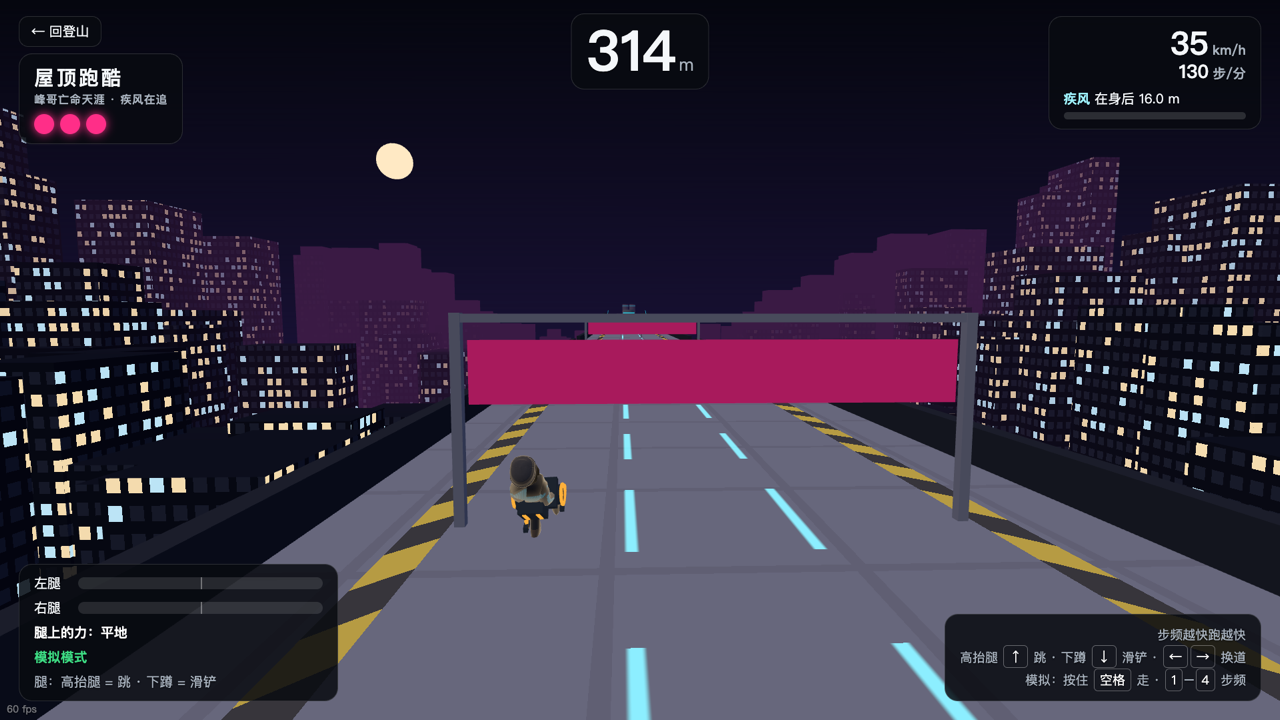
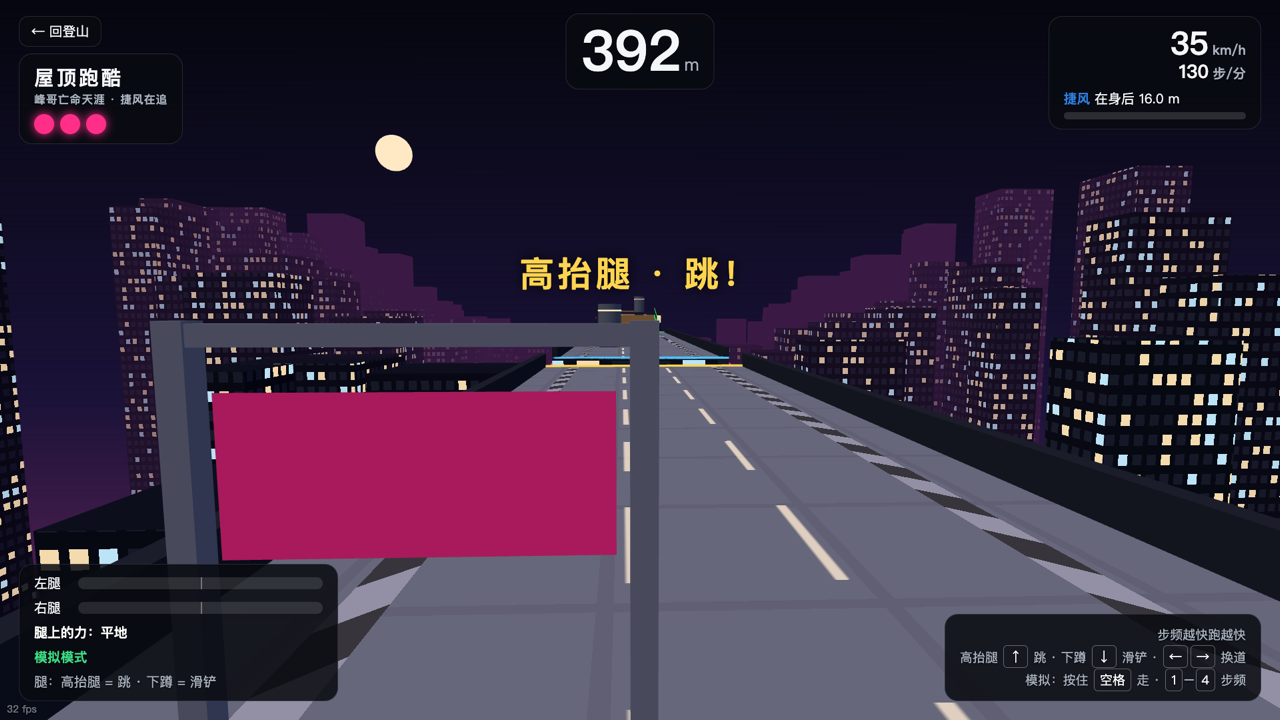
R 跑酷：追兵统一叫「捷风」；颜色改从 game/style.js 取（ART 范式 §R 的 5 条 P1）
- 文案 / 标签 / 结局标题全改捷风；HUD 用 applyCssVars()（强调色紫、状态色、捷风钴蓝），不再另写一套
- 3D：起跳障碍前沿 + 楼缝起跳沿 = SEG.stairs_up，落地沿 = SEG.down，斜板扶手 + 两侧板沿 = SEG.up；
  车道线青 → 月光白、楼沿警示带黄黑 → 灰黑、水箱环青 → 月光（避开路段色）
- 捷风只在 jfGap ≤ 1.8 时现身，离镜头横向固定 1.8（站峰哥另一侧，不压左下面板）；STL 雕像按 npc.js 的风系飘行
- 截图重拍：--sim 自动驾驶一局 127 s / 1123 m，force 只有 null / up / lift / down

diff --git a/shellos/ui/static/parkour.html b/shellos/ui/static/parkour.html
@@ -11,7 +11,8 @@
 </script>
 <script type="importmap">{"imports":{"three":"/vendor/three.module.js","three/addons/":"/vendor/"}}</script>
 <style>
-:root{--fg:#f4f7fa;--dim:#a9b3bf;--panel:rgba(8,10,16,.86);--line:rgba(255,255,255,.14);--acc:#29e7ff;--acc0:#ff2e88;--jf:#9ff3ff}
+/* 颜色全从 game/style.js 来（main.js 开头 applyCssVars()，覆盖这里的缺省值）：--ui-* / --acc = HUD，--seg-* = 路段，--who-jett = 捷风；--acc0 = 跑酷色板品红 */
+:root{--fg:var(--ui-fg,#f4f7fa);--dim:var(--ui-dim,#a9b3bf);--panel:var(--ui-panel,rgba(8,10,16,.86));--line:var(--ui-line,rgba(255,255,255,.12));--acc:#b48cff;--acc0:#ff2e88;--jf:var(--who-jett,#2f7fe0);--bad:var(--ui-danger,#ff4d4f)}
 html{font-size:clamp(13px,1.04vw,44px)}
 *{box-sizing:border-box}
 body{margin:0;overflow:hidden;background:#05060a;color:var(--fg);font-family:-apple-system,"PingFang SC","Hiragino Sans GB","Noto Sans CJK SC",sans-serif;user-select:none}
@@ -19,7 +20,7 @@ body{margin:0;overflow:hidden;background:#05060a;color:var(--fg);font-family:-ap
 .hud{position:fixed;pointer-events:none;text-shadow:0 1px 3px rgba(0,0,0,.6)}
 /* 不用 backdrop-filter：盖在 WebGL 画布上每帧都要重新模糊，这台 AMD 555 上 34 → 60 fps 就差它 */
 .panel{background:var(--panel);border:1px solid var(--line);border-radius:1rem;padding:.7rem 1.1rem}
-#flash{inset:0;background:radial-gradient(ellipse at center,transparent 35%,#ff2040 100%);opacity:0}
+#flash{inset:0;background:radial-gradient(ellipse at center,transparent 35%,var(--bad) 100%);opacity:0}
 #tl{left:1.4rem;top:1.2rem;display:flex;flex-direction:column;gap:.5rem}
 #back{pointer-events:auto;align-self:flex-start;color:var(--fg);text-decoration:none;font-size:1rem;padding:.4rem .9rem;border-radius:.7rem;background:var(--panel);border:1px solid var(--line)}
 #name{font-size:1.5rem;font-weight:900;letter-spacing:.12em}
@@ -36,20 +37,20 @@ body{margin:0;overflow:hidden;background:#05060a;color:var(--fg);font-family:-ap
 #jf{margin-top:.6rem;font-size:1rem;text-align:left}
 #jf b{color:var(--jf)}
 #jfTrack{height:.55rem;border-radius:.3rem;background:rgba(255,255,255,.14);overflow:hidden;margin-top:.3rem}
-#jfBar{height:100%;width:0;background:linear-gradient(90deg,var(--jf),#ff4d6d);transition:width .2s}
-body.danger #tr{border-color:#ff4d6d;box-shadow:0 0 1.2rem rgba(255,77,109,.5)}
-#jfSay{right:1.4rem;top:12.5rem;font-size:1.3rem;font-weight:800;color:#dffaff;border-color:var(--jf);opacity:0;transform:translateY(-.4rem);transition:opacity .25s,transform .25s}
-#jfSay::before{content:"疾风";display:block;font-size:.75rem;letter-spacing:.2em;color:var(--jf)}
+#jfBar{height:100%;width:0;background:linear-gradient(90deg,var(--jf),var(--bad));transition:width .2s}
+body.danger #tr{border-color:var(--bad);box-shadow:0 0 1.2rem var(--bad)}
+#jfSay{right:1.4rem;top:12.5rem;font-size:1.3rem;font-weight:800;color:var(--fg);border-color:var(--jf);opacity:0;transform:translateY(-.4rem);transition:opacity .25s,transform .25s}
+#jfSay::before{content:"捷风";display:block;font-size:.75rem;letter-spacing:.2em;color:var(--jf)}
 body.talk #jfSay{opacity:1;transform:none}
 #hint{left:50%;top:38%;transform:translate(-50%,-50%);font-size:2.6rem;font-weight:900;letter-spacing:.1em;text-shadow:0 0 1rem rgba(0,0,0,.8)}
-#hint.jump{color:#ffd54f}#hint.slide{color:#ff5fa8}#hint.lane{color:var(--acc)}
+#hint.jump{color:var(--seg-stairs-up)}#hint.slide{color:var(--acc0)}#hint.lane{color:var(--acc)}   /* 跳 = 台阶黄（起跳前给 lift，和台阶同类） */
 #bl{left:1.4rem;bottom:1.4rem;width:24rem;display:flex;flex-direction:column;gap:.45rem;font-size:1rem}
 .leg{display:grid;grid-template-columns:2.8rem 1fr;align-items:center;gap:.5rem}
 .bar{position:relative;height:.9rem;border-radius:.45rem;background:rgba(255,255,255,.12);overflow:hidden}
 .bar::after{content:"";position:absolute;left:50%;top:0;bottom:0;width:2px;background:rgba(255,255,255,.35)}
 .bar i{position:absolute;top:0;bottom:0;left:50%;width:0;background:var(--acc)}
 #force{color:#fff;font-weight:700}
-#r2{color:#ffb03a;font-weight:700}#r2.ok{color:#3ddc84}
+#r2{color:var(--ui-warn);font-weight:700}#r2.ok{color:var(--ui-ok)}
 #legs{color:var(--dim)}
 #keys{right:1.4rem;bottom:1.4rem;font-size:.95rem;color:var(--dim);text-align:right;line-height:1.7}
 #keys kbd{display:inline-block;padding:0 .4rem;margin:0 .1rem;border-radius:.3rem;border:1px solid rgba(255,255,255,.35);color:#fff;font:inherit}
@@ -60,11 +61,11 @@ body.title #hint,body.over #hint{display:none}
 #title .s{font-size:1.4rem;margin-top:.6rem}
 #title .s b{color:var(--acc)}
 #title .d{font-size:1.05rem;color:var(--dim);margin-top:.8rem;line-height:1.8}
-#over{border-color:var(--acc0)}
+#over{border-color:var(--bad)}
 #over .n{font-size:5rem;font-weight:900;line-height:1.1;font-variant-numeric:tabular-nums}
 #over .n small{font-size:1.6rem;color:var(--dim)}
-#over .w{font-size:1.3rem;color:#ff8fa3;margin:.2rem 0 .6rem}
-#goNew{color:#ffd54f;font-size:1.3rem;font-weight:800;display:none}
+#over .w{font-size:1.3rem;color:var(--bad);margin:.2rem 0 .6rem}
+#goNew{color:var(--acc);font-size:1.3rem;font-weight:800;display:none}
 #over .d{font-size:1.1rem;color:var(--dim);margin-top:.6rem}
 #banner{left:50%;top:50%;transform:translate(-50%,-50%);font-size:1.3rem;display:none}
 #fps{left:.5rem;bottom:.3rem;font-size:.75rem;color:rgba(255,255,255,.45)}
@@ -72,12 +73,12 @@ body.title #hint,body.over #hint{display:none}
 </style></head><body class="title">
 <canvas id="c"></canvas>
 <div class="hud" id="flash"></div>
-<div class="hud" id="tl"><a id="back" href="/game">← 回登山</a><div class="panel"><div id="name">屋顶跑酷<small>峰哥亡命天涯 · 疾风在追</small></div><div id="lives"></div></div></div>
+<div class="hud" id="tl"><a id="back" href="/game">← 回登山</a><div class="panel"><div id="name">屋顶跑酷<small>峰哥亡命天涯 · 捷风在追</small></div><div id="lives"></div></div></div>
 <div class="hud panel" id="tc"><span id="dist">0</span><small>m</small></div>
 <div class="hud panel" id="tr">
   <div class="big"><span id="spd">0</span><small>km/h</small></div>
   <div class="big" style="font-size:1.4rem"><span id="cad">—</span><small>步/分</small></div>
-  <div id="jf"><b>疾风</b> 在身后 <span id="jfM">—</span><div id="jfTrack"><div id="jfBar"></div></div></div>
+  <div id="jf"><b>捷风</b> 在身后 <span id="jfM">—</span><div id="jfTrack"><div id="jfBar"></div></div></div>
 </div>
 <div class="hud panel" id="jfSay"></div>
 <div class="hud" id="hint"></div>
@@ -89,7 +90,7 @@ body.title #hint,body.over #hint{display:none}
   <div id="legs">—</div>
 </div>
 <div class="hud panel" id="keys">步频越快跑越快<br>高抬腿 <kbd>↑</kbd> 跳 · 下蹲 <kbd>↓</kbd> 滑铲 · <kbd>←</kbd><kbd>→</kbd> 换道<span id="simHint" style="display:none"><br>模拟：按住 <kbd>空格</kbd> 走 · <kbd>1</kbd>–<kbd>4</kbd> 步频</span></div>
-<div class="hud panel" id="title"><div class="t">屋顶跑酷</div><div class="s">迈开腿就开跑 —— <b>别让疾风追上</b></div>
+<div class="hud panel" id="title"><div class="t">屋顶跑酷</div><div class="s">迈开腿就开跑 —— <b>别让捷风追上</b></div>
   <div class="d">步频 = 速度 · 高抬腿跳过空调和楼缝 · 下蹲钻晾衣杆 · ← → 绕开水箱<br>撞 3 次结束</div></div>
 <div class="hud panel" id="over"><div class="t" id="goT">峰哥倒下了</div><div class="w" id="hitWhy"></div><div class="n"><span id="goDist">0</span><small> m</small></div>
   <div id="goNew">★ 新纪录</div><div class="d">最好成绩 <b id="goBest">0</b> m · <b>高抬腿</b> 或 <b>回车</b> 再来一局</div></div>

diff --git a/shellos/ui/static/parkour/city.js b/shellos/ui/static/parkour/city.js
@@ -3,9 +3,13 @@
 import * as THREE from 'three';
 import { mergeGeometries } from 'three/addons/BufferGeometryUtils.js';
 import { rng, LANE } from './logic.js';
+import { SEG, PALETTE } from '/game/style.js';
 
 export const ROOF_W = 8;                     // 屋顶宽（z），三条道在中间 ±2.4
-const NEON = ['#29e7ff', '#ff2e88', '#ffd54f', '#7c5cff'];
+// 颜色按 ART 范式（game/style.js）：路段色只标腿上有力的地方——起跳前沿 = 台阶黄（起跳前给 lift）、斜板 = 上坡绿、落地沿 = 下坡蓝；
+//   其余用跑酷色板（品红 + 月光），不用青（撞下坡蓝）、不用琥珀（峰哥专用）、不用黄（台阶专用）
+const [MAGENTA, MOON] = PALETTE.parkour.accent;
+const lin = hex => { const c = new THREE.Color(hex); return `vec3(${c.r.toFixed(3)}, ${c.g.toFixed(3)}, ${c.b.toFixed(3)})`; };
 
 // 楼：一个材质一次绘制。竖墙 = 窗户（按 (横向坐标, y) 分格，hash 决定亮不亮 / 暖还是冷）；roof = 顶面画成屋顶（混凝土方砖 + 三条道的发光分隔线 + 两边警示带）。
 // local = 用几何自己的坐标（天际线整体平移时窗户不跳）
@@ -32,9 +36,9 @@ function winMat(base, local, roof) {
           diffuseColor.rgb *= 0.85 + 0.15 * step(0.03, min(g.x, g.y));
           float z = abs(vP.z);
           float lane = 1.0 - smoothstep(0.03, 0.07, abs(z - ${(LANE / 2).toFixed(2)}));
-          totalEmissiveRadiance += lane * step(0.45, fract(vP.x / 3.0)) * vec3(0.16, 0.9, 1.0) * 0.8;
+          totalEmissiveRadiance += lane * step(0.45, fract(vP.x / 3.0)) * ${lin(MOON)} * 0.6;
           float edge = step(${(LANE * 1.5 + 0.1).toFixed(2)}, z) * step(z, ${(LANE * 1.5 + 0.45).toFixed(2)});
-          diffuseColor.rgb = mix(diffuseColor.rgb, mix(vec3(1.0, 0.75, 0.1), vec3(0.08), step(0.5, fract((vP.x + z) / 1.2))), edge);
+          diffuseColor.rgb = mix(diffuseColor.rgb, mix(vec3(0.62, 0.64, 0.68), vec3(0.08), step(0.5, fract((vP.x + z) / 1.2))), edge);
         }` : ''}`);
   };
   m.customProgramCacheKey = () => 'win' + (local ? 'L' : 'W') + (roof ? 'R' : '');
@@ -45,12 +49,13 @@ export function makeCity(scene, { low = false } = {}) {
   const M = {
     win: winMat('#1d2333', false, true),
     parapet: new THREE.MeshLambertMaterial({ color: '#2a2f3a' }),
-    neon: NEON.map(c => new THREE.MeshBasicMaterial({ color: c })),
+    side: new THREE.MeshBasicMaterial({ color: MAGENTA }),
+    jump: new THREE.MeshBasicMaterial({ color: SEG.stairs_up }), up: new THREE.MeshBasicMaterial({ color: SEG.up }), land: new THREE.MeshBasicMaterial({ color: SEG.down }),
     ramp: new THREE.MeshLambertMaterial({ color: '#8a6a3a', emissive: '#2a1a08' }),
     ac: new THREE.MeshLambertMaterial({ color: '#d7dde4' }), fan: new THREE.MeshBasicMaterial({ color: '#15181e' }),
-    warn: new THREE.MeshBasicMaterial({ color: '#ffb03a' }),
+    warn: new THREE.MeshBasicMaterial({ color: SEG.stairs_up }),   // 要跳的障碍前沿 = 台阶黄
     pole: new THREE.MeshLambertMaterial({ color: '#8d96a3' }), cloth: new THREE.MeshLambertMaterial({ color: '#ff2e88', emissive: '#6a0d36', side: THREE.DoubleSide }),
-    tank: new THREE.MeshLambertMaterial({ color: '#6d7b86' }), tankBand: new THREE.MeshBasicMaterial({ color: '#29e7ff' }),
+    tank: new THREE.MeshLambertMaterial({ color: '#6d7b86' }), tankBand: new THREE.MeshBasicMaterial({ color: MOON }),
   };
 
   // ---- 天空 + 远景 ----
@@ -76,20 +81,23 @@ export function makeCity(scene, { low = false } = {}) {
   // ---- 关卡物件 ----
   const live = new Map();                                  // 关卡里的 seg / obs 对象 → 网格
   const box = (w, h, d) => new THREE.BoxGeometry(w, h, d);
-  function segMesh(s) {
+  function segMesh(s, prev, next) {
     const L = s.x1 - s.x0, g = new THREE.Group();
     if (s.kind === 'roof') {
       const b = new THREE.Mesh(box(L, 80, ROOF_W).translate(0, -40, 0), M.win);
       const par = new THREE.Mesh(mergeGeometries([box(L, 0.5, 0.25).translate(0, 0.25, ROOF_W / 2 - 0.12), box(L, 0.5, 0.25).translate(0, 0.25, -ROOF_W / 2 + 0.12)]), M.parapet);
-      const neon = new THREE.Mesh(mergeGeometries([box(L, 0.08, 0.1).translate(0, -0.3, ROOF_W / 2 + 0.05), box(L, 0.08, 0.1).translate(0, -0.3, -ROOF_W / 2 - 0.05), box(0.1, 0.08, ROOF_W).translate(L / 2 + 0.05, -0.3, 0)]),
-        M.neon[Math.floor(s.x0 / 7) % NEON.length]);   // 楼沿一圈霓虹：楼缝在哪一眼看清
-      g.add(b, par, neon);
+      g.add(b, par, new THREE.Mesh(mergeGeometries([box(L, 0.08, 0.1).translate(0, -0.3, ROOF_W / 2 + 0.05), box(L, 0.08, 0.1).translate(0, -0.3, -ROOF_W / 2 - 0.05)]), M.side));
+      // 楼头楼尾的亮沿：前面是楼缝 = 起跳（台阶黄），前面是斜板 = 上坡绿；后面是楼缝 = 落地（下坡蓝）。楼缝在哪一眼看清
+      if (next) g.add(new THREE.Mesh(box(0.14, 0.1, ROOF_W).translate(L / 2 - 0.07, 0.02, 0), next.kind === 'ramp' ? M.up : M.jump));
+      if (prev && prev.kind === 'gap') g.add(new THREE.Mesh(box(0.14, 0.1, ROOF_W).translate(-L / 2 + 0.07, 0.02, 0), M.land));
       g.position.set((s.x0 + s.x1) / 2, s.h0, 0);
     } else if (s.kind === 'ramp') {
       const dy = s.h1 - s.h0, len = Math.hypot(L, dy);
       const p = new THREE.Mesh(box(len, 0.25, ROOF_W - 1.5), M.ramp);
       p.rotation.z = Math.atan2(dy, L); p.position.y = -0.12;
-      const rails = new THREE.Mesh(mergeGeometries([box(len, 0.06, 0.06).translate(0, 0.9, ROOF_W / 2 - 0.8), box(len, 0.06, 0.06).translate(0, 0.9, -ROOF_W / 2 + 0.8)]), M.neon[0]);
+      const e = (ROOF_W - 1.5) / 2;                     // 斜板上给的是 up：扶手 + 两侧板沿都用上坡绿
+      const rails = new THREE.Mesh(mergeGeometries([box(len, 0.06, 0.06).translate(0, 0.9, ROOF_W / 2 - 0.8), box(len, 0.06, 0.06).translate(0, 0.9, -ROOF_W / 2 + 0.8),
+        box(len, 0.08, 0.12).translate(0, 0.02, e - 0.06), box(len, 0.08, 0.12).translate(0, 0.02, -e + 0.06)]), M.up);
       rails.rotation.z = p.rotation.z;
       g.add(p, rails);
       g.position.set((s.x0 + s.x1) / 2, (s.h0 + s.h1) / 2, 0);
@@ -128,7 +136,7 @@ export function makeCity(scene, { low = false } = {}) {
     // 每帧：把关卡里新出现的物件建出来、没了的扔掉；天际线跟着人挪
     sync(level, px) {
       const want = new Set();
-      for (const s of level.segs) { want.add(s); if (!live.has(s)) { const m = segMesh(s); live.set(s, m); if (m) scene.add(m); } }
+      level.segs.forEach((s, i) => { want.add(s); if (!live.has(s)) { const m = segMesh(s, level.segs[i - 1], level.segs[i + 1]); live.set(s, m); if (m) scene.add(m); } });
       for (const o of level.obs) { want.add(o); if (!live.has(o)) { const m = obsMesh(o, level.ground(o.x) ?? 0); live.set(o, m); scene.add(m); } }
       for (const [k, m] of live) if (!want.has(k)) { if (m) kill(m); live.delete(k); }
       skyline.position.x = Math.floor(px / T) * T;

diff --git a/shellos/ui/static/parkour/main.js b/shellos/ui/static/parkour/main.js
@@ -8,9 +8,11 @@ import * as THREE from 'three';
 import { loadAvatar, preloadAvatar } from '/game/avatar.js';
 import { dressFengge } from '/game/fengge.js';
 import { makeJifeng } from '/game/npc_jifeng.js';
-import { LANE, TUNE, makeLevel, makeRun, makeLegs, speedFor, forceKind, nextThreat } from './logic.js';
+import { PALETTE, applyCssVars } from '/game/style.js';
+import { TUNE, makeLevel, makeRun, makeLegs, speedFor, forceKind, nextThreat } from './logic.js';
 import { makeCity } from './city.js';
 
+applyCssVars(); document.documentElement.style.setProperty('--acc0', PALETTE.parkour.accent[0]);   // 颜色按 ART 范式，不另写一套
 const Q = new URLSearchParams(location.search);
 const LOW = Q.get('fx') === 'low', AUTO = Q.has('auto') ? +(Q.get('auto') || 0.85) : 0, MUTE = Q.get('voice') === '0';
 for (const [k, q] of [['JUMP_FLEX', 'jump'], ['SLIDE_FLEX', 'slide'], ['JUMP_VEL', 'vjump']]) if (Q.has(q)) TUNE[k] = +Q.get(q);
@@ -130,7 +132,7 @@ async function main() {
 
   // ---------- 每帧 ----------
   const P = new THREE.Vector3(), camP = new THREE.Vector3(), look = new THREE.Vector3(), dir = new THREE.Vector3(1, 0, 0), jfP = new THREE.Vector3();
-  let last = performance.now(), frames = 0, fpsT = last, camY = run.y, jfPhase = 0, tilt = 0;
+  let last = performance.now(), frames = 0, fpsT = last, camY = run.y, jfPhase = 0, tilt = 0, jfZ = 1.8;
   const HINT = { jump: '高抬腿 · 跳！', slide: '下蹲 · 滑铲！', lane: '← → 换道！' };
   function frame() {
     requestAnimationFrame(frame);
@@ -149,8 +151,8 @@ async function main() {
     if (run.over && t - overAt > 3 && pend.jump) newRun();   // 穿着外骨骼按不了回车：高抬腿再来一局
     for (const ev of run.events.splice(0)) {
       if (ev === 'start') { document.body.classList.remove('title'); say('start'); }
-      if (['low', 'high', 'block', 'fall', 'wall', 'caught'].includes(ev)) { shake = 0.5; flash = 1; $('hitWhy').textContent = { low: '撞上空调外机', high: '被晾衣杆拦住', block: '撞上水箱', fall: '掉下楼缝', wall: '撞上楼沿', caught: '被疾风追上' }[ev]; if (ev === 'caught') { say('caught'); jf.burst(); } }
-      if (ev === 'over') { overAt = t; $('goT').textContent = $('hitWhy').textContent === '被疾风追上' ? '被疾风抓住了' : '峰哥倒下了'; const b = best.get(), d = Math.floor(run.dist); if (d > b) best.set(d); $('goDist').textContent = d; $('goBest').textContent = Math.max(b, d); $('goNew').style.display = d > b ? 'block' : 'none'; document.body.classList.add('over'); }
+      if (['low', 'high', 'block', 'fall', 'wall', 'caught'].includes(ev)) { shake = 0.5; flash = 1; $('hitWhy').textContent = { low: '撞上空调外机', high: '被晾衣杆拦住', block: '撞上水箱', fall: '掉下楼缝', wall: '撞上楼沿', caught: '被捷风追上' }[ev]; if (ev === 'caught') { say('caught'); jf.burst(); } }
+      if (ev === 'over') { overAt = t; $('goT').textContent = $('hitWhy').textContent === '被捷风追上' ? '被捷风抓住了' : '峰哥倒下了'; const b = best.get(), d = Math.floor(run.dist); if (d > b) best.set(d); $('goDist').textContent = d; $('goBest').textContent = Math.max(b, d); $('goNew').style.display = d > b ? 'block' : 'none'; document.body.classList.add('over'); }
     }
     if (run.jfGap > 14 && jfSaid !== 'lost' && run.started) say('lost');
     else if (run.jfGap < 4 && jfSaid !== 'dash' && jfSaid !== 'caught' && run.started && !run.over) say('dash');
@@ -173,13 +175,18 @@ async function main() {
     av.group.visible = !(run.invuln > 0 && Math.floor(t * 12) % 2);
     av.animate(dtR, t, { state: S && S.frame ? S : null, fl: 5, fr: 5, kind: run.air ? 'stairs_up' : seg && seg.kind === 'ramp' ? 'up' : 'flat', summit: false });
 
-    // 疾风：在身后 jfGap 米；近了才进镜头
-    const jx = run.x - run.jfGap, jy = level.ground(jx) ?? run.y;
-    jfP.set(jx, jy, run.jfV > 0 ? -LANE * 0.9 : run.z - 0.9);
-    jf.group.position.copy(jfP); jf.group.rotation.set(0, 0, run.jfV > 0 ? -0.25 : 0);
+    // 捷风：在身后 jfGap 米。构图（ART §8）：离镜头横向固定 1.8（站到峰哥另一侧，不在左下前景被切一半、不压左下腿力面板），
+    //   jfGap ≤ 1.8（离镜头 ≥ 2.5）才现身；再远只留右上角距离条。STL 雕像四肢不能动：和登山游戏一样风系飘行（npc.js）
+    const jx = run.x - run.jfGap, jy = level.ground(jx) ?? run.y, camZ = run.z * 0.55, chasing = run.jfV > 0;
+    jfZ += ((camZ <= 0 ? camZ + 1.8 : camZ - 1.8) - jfZ) * (1 - Math.exp(-dtR * 4));
+    jfP.set(jx, jy, jfZ);
+    jf.group.position.copy(jfP);
     jfPhase += dtR * Math.PI * Math.max(1.5, (run.jfV || 6) / 2.2);
-    if (run.jfV > 0 || !run.started) { const amp = run.jfV > 0 ? 38 : 0; jf.pose(amp * Math.sin(jfPhase), amp * Math.sin(jfPhase + Math.PI)); } else jf.pose(-4, 6);
-    jf.visible = run.jfGap < 3.2;                  // 再远就贴到镜头上了（镜头在身后 4.3），只留右上角的距离条
+    const jfLean = jf.statue ? (chasing ? 0.13 + (run.jfGap < 5 ? 0.32 : 0) : 0.03) : chasing ? 0.25 : 0;
+    jf.group.rotation.set(0, 0, -jfLean);
+    if (jf.statue) { jf.group.position.y += chasing ? 0.1 + 0.05 * Math.sin(jfPhase * 2) : 0.07 + 0.03 * Math.sin(t * 2.2); jf.group.scale.y = 1 + 0.012 * Math.sin(t * 1.8); }
+    if (chasing) jf.pose(38 * Math.sin(jfPhase), 38 * Math.sin(jfPhase + Math.PI)); else jf.pose(-4, 6);
+    jf.visible = run.jfGap <= 1.8;
     jf.update(dtR, jfP, dir, run.jfGap < 5 ? 1 : 0.3);
 
     // 镜头：身后偏上；跳的时候不跟满，落地有顿挫；撞了抖

diff --git a/shellos/ui/static/parkour/logic.js b/shellos/ui/static/parkour/logic.js
@@ -1,6 +1,6 @@
 // 跑酷（R 线）的纯逻辑：关卡生成、物理、腿 → 跳 / 滑铲、腿上的力该是什么。不依赖 three，tests/test_parkour.py 用 node 直接跑。
 // 坐标：前进 = +x（米），车道 = z（右 = +z），高度 = y。三条道 z = −LANE, 0, +LANE。
-// 一局：无尽城市屋顶，撞 3 次结束（障碍 / 掉楼缝 / 被疾风追上都算一次）。跑速只看步频。
+// 一局：无尽城市屋顶，撞 3 次结束（障碍 / 掉楼缝 / 被捷风追上都算一次）。跑速只看步频。
 
 export const LANE = 1.6;
 export const TUNE = {                  // 现场调这里（也可以 URL 覆盖：?jump=45&slide=35&vjump=80）
@@ -16,7 +16,7 @@ export const TUNE = {                  // 现场调这里（也可以 URL 覆盖
   LOW_H: 0.85,     // 低障碍（空调外机 / 矮墙）高度：脚离地要超过它
   HIGH_Y: 1.0,     // 高障碍（晾衣杆）下沿：滑铲时身高 0.8 能钻过去
   LIVES: 3, INVULN: 1.5,
-  JF_GAP0: 1.5, JF_WAIT: 3, JF_RESET: 7, JF_V0: 6.3, JF_ACC: 0.004, JF_VMAX: 13.5, JF_GAPMAX: 16,   // 疾风：开局站你身边，「你先跑三秒」后才追；速度随跑的距离涨（1000 m 时 10.3 m/s ≈ 步频 137）
+  JF_GAP0: 1.5, JF_WAIT: 3, JF_RESET: 7, JF_V0: 6.3, JF_ACC: 0.004, JF_VMAX: 13.5, JF_GAPMAX: 16,   // 捷风：开局站你身边，「你先跑三秒」后才追；速度随跑的距离涨（1000 m 时 10.3 m/s ≈ 步频 137）
 };
 
 // ---------- 随机数（固定种子：同一局路一样，测试可复现） ----------
@@ -145,7 +145,7 @@ export function makeRun(level, T = TUNE) {
       const bad = o.type === 'block' || (o.type === 'low' && foot < T.LOW_H) || (o.type === 'high' && S.slideT <= 0 && foot < 1.2);
       if (bad && S.invuln <= 0) { o.hit = true; hit(o.type); }
     }
-    // 疾风：速度随距离涨；你比她快就拉开，慢就被追上
+    // 捷风：速度随距离涨；你比她快就拉开，慢就被追上
     if (S.started) {
       S.jfV = S.t - S.startT < T.JF_WAIT ? 0 : Math.min(T.JF_VMAX, T.JF_V0 + S.dist * T.JF_ACC);
       S.jfGap = Math.min(T.JF_GAPMAX, S.jfGap + (S.speed - S.jfV) * dt);

diff --git a/docs/指挥板.md b/docs/指挥板.md
@@ -16,7 +16,7 @@
 | **S 提交物 / 叙事** | `docs/提交/**`、README 的「项目介绍」段 | 改名峰哥亡命天涯；加蜂群（峰哥当年合伙的公司就叫「蜂群文化」）、一句话造山、峰哥解说；评委题库补：断网怎么办 / 安全员为何不用大模型 / 肖像与素材授权 | ✅ 第 6 轮（已 merge main 8215a79，未 push）：项目介绍 / 60 秒 / 4 分钟 / 题库 / 分镜 / 海报文案，另外 poster、onepager、README 开头段也跟上了。**手感**：上台阶 = 支撑期阻力（摆动期 0）、下台阶 = 落阶冲击 + 助力 + 摆动期帮迈腿，峰值按强度 3.0 / 软限 4 用 `terrain.pulse()` 算的（上坡 +3.0、下坡 −2.4、上台阶 −3.6、下台阶 −3.0 / +3.0 / −2.4、红灯 −1.5、lift −2.4 Nm）；`pulse_plot.py --strength 3.0`（CAP=4）重跑核对全过，新图 `截图/脉冲-上台阶-阻力.png`、`脉冲-下台阶-落阶冲击.png`，海报角图换掉了。**题库**加 D10 上楼为什么是阻力 / D11 落阶冲击会不会伤人 / D12 力波形是真的吗（答：是 Guard 发出的指令 `safety.sent`，不是测出来的力）；D9 改成「是捷风」：粉丝手办 Frojj123 CC BY 4.0、IP 属于 Riot 没授权、声音配音演员本人同意现场录（录音未到）。**4 分钟**主线不加跑酷 / 珠峰（时间不够），加「加演」表：珠峰走到北坳即可；跑酷真机没试通就只放模拟。60 秒正片不动结构，另列 15 s 花絮（珠峰 + 跑酷 + 捷风，角标「模拟」）。**大模型口径**：C 行说现在大脑跑的是 MiniMax-M3（Claude 等 key），材料里「教练 = Claude」都改成「大模型（Claude；没 key 时 MiniMax-M3）」，引 C 行实测（教练 23/23 p50 1.6 s、造山 p50 7.0 s、解说 0.9–2.2 s）。**要总指挥确认 / 处理**：① 软限 4 Nm、强度 3.0 仓库里没有出处（`--cap` 缺省 3、Terrain 缺省 1.5），材料写成「总指挥 9/23 转达」；**换人 / 演示复位会把强度重置回 1.5**（`demo_reset` 里 `Terrain()`），4 分钟脚本开场前清单加了「换完人调回 3.0」，建议改代码缺省或 run-mac.sh；② 经验卡 `source` MiniMax 也写 `claude`，建议改成 `llm` 或带模型名；③ README 正文安全表、架构 v3 还写软限 3 Nm / 旧台阶手感（不归 S）；④ `ui_play_force.png`、`游戏-东京天桥-v2.jpg` 是台阶反过来 / 新 HUD 之前拍的，要重拍。验收：printToPDF 海报两版各 1 页、一页纸两版各 2 页，逐页看过不截断 |
 | **P 峰哥建模**（分支 claude/vibrant-ritchie-f949b4） | `static/game/fengge.js`、`static/game/lod.js`（新，第 2 轮）、`tests/test_game_lod.py`（新）、`static/fengge.html`、`static/models/fengge_face_hd.jpg`（新）、`docs/提交/素材授权.md`（新，和 J 线那份表头一样，合并时两边的行拼起来）、`docs/提交/截图/fengge_v2_*.png`；**avatar.js / engine.js / fengge.html 都没改** | 峰哥在正面镜头（V / `?cam=front`）近景下好看、一眼认得出：立体头型、针织帽、胡子头发、户外穿搭，外骨骼保留 | ✅ **第 2 轮（未 push）**：① **LOD**：峰哥头 / 帽 / 头发造了两档，按头离镜头的距离切换（`THREE.LOD`，3.6 m，回差 10%）：正面镜头约 2.4 m 用近档（和 v2 一样，1.07 万三角），跟拍约 5 m、登顶环绕用远档（约 1.8k 三角）。30° 特写两档几乎看不出差别（`截图/fengge_lod.png`，左近右远），`?fglod=0/1` 可以固定用近档或远档。实测（`scripts/dom.mjs`，1920×1080，`npc=0`，面数按 dom.mjs 报的原样记，现在每帧要画两遍（光影线的后期），所以比 v2 那时大）：东京 pos 18 跟拍 +2.6k/帧（v2 是 +10.6k），泰山 pos 14 正面 +20.5k/帧；两处绘制次数和 `?fengge=0` 一样（149 / 106）。**捷风雕像**归 J，我只出了工具 `game/lod.js` 的 `simplify(geo, cell)`（顶点聚类，4.4 万三角 → 1.48 万三角，38–46 ms）和方案（见留言）。② **登顶「这是个好事儿啊」**：包一层 A2 的 animate（A2 同意由 P 维护），程度直接读 `av.body.P.cheer`：先点两下头，再多仰 6°、往一侧歪 8°；右臂把 V 字挥手换成**举在头侧的大拇指**。CesiumMan 的手是连指手套，没有手指骨，所以登顶时右手在着色器里藏掉，换成拳头 + 朝天的拇指；登顶镜头多从背后拍（泰山是定机位），举在头侧前后都看得见。照片嘴角往上挪约 7 px（很轻：怕真人脸变形）。顺手：手改成肤色（峰哥没戴手套），手腕上的深色小球藏了。截图 `截图/fengge_summit_front.png`、`fengge_summit_back.png`、`fengge_summit_game.png`（泰山登顶，从背后拍）。③ **v3 照片**：`data/fengge_photos/` 还没有照片，照片到了再做（后台在盯这个目录）。**踩坑**：v2 和这轮各有一次在 `FENGGE_LOOK` 一行中间插注释，把后面的颜色吞了（帽子 / 鞋变白），都在截图里发现后修了。<br>✅ **第 1 轮 v2（已合 main）**。**底模没换**，还是 CesiumMan，骨骼一根没加没改（名字 / 层级 / 绑定姿态原样）：A2 的动作是按 CesiumMan 骨骼名和逐根量过的转轴调的，换 Quaternius 这些都得重量，比赛前不值。把 A2 的 baf464a 临时叠上来跑过 `/game?…&cam=front`、`cam=side`：前倾、转头、围脖都正常（验完还原了，没带进分支）。**头**：放样几何（下巴到头顶 40 层截面 + 鼻梁 / 鼻翼 / 眼窝 / 眉弓 / 颧骨 / 嘴唇 / 下巴起伏），单位是参考照片的像素，照片（原图重新裁的 400×540，比旧的 272×384 清楚）按正前方正投影贴上去，五官自然对上；转开 60° 以上淡出成肤色 / 胡茬（带颗粒），后脑下半是发色。**帽子**：翻边 + 帽身，canvas 画的罗纹 V 字针脚（贴图 + 凹凸），帽檐线按照片（前额压到眉毛上方，两侧压过耳朵）。**头发**：帽子底下两侧 + 后脑两层发片，往下蓬、一绺一绺收尖（照片里就是齐下巴的头发撑在两边）。**围脖**：照片里的黑色抓绒围脖，挂脖子骨，转头不跟着转。**衣服**：包一层化身原来的分区材质：深灰速干衣 + 胸前 / 背后青色竖条纹 V 字拼色（照片里的户外打底衫，**没画任何 logo**）、袖子外侧青线、青色袖口、手套、深色长裤、登山鞋；身材沿法线鼓 0.4–1.2 cm。头放大到 0.25 m（身高的 1/5.8）、下巴压低 4 cm，不然正面镜头 2.4 m 外脸太小、脖子太长。**开销**（`scripts/dom.mjs`，1920×1080）：东京 pos 18 跟拍 73 次绘制 / 83.5k 三角形，`?fengge=0` 71 / 72.9k；泰山 pos 14 正面 49 / 243.9k vs 47 / 233.3k → **+2 次绘制、+10.6k 三角形**（v1 是 +3 / +4.4k），贴图多一张 400×540 + 两张 128² canvas；FPS 没在 M2 上测。**截图**（对比 `fengge_v2_compare.png`，左旧右新）：`fengge_v2_front / left30 / right30 / side / back.png`（`/fengge?zoom=1&walk=0&yaw=…`）、`fengge_v2_walk.png`（全身走路）、`fengge_v2_game_front.png`（`/game?preview=taishan_18pan&pos=14&cam=front`）、`fengge_v2_night_front.png`（东京 pos 18 正面，夜里脸看得清）。截图是无头 Chrome 按真实时间等 `data-ready` 再截的（swiftshader，内置浏览器面板没显示截不了）。**不理想**：照片是强光自拍，预览页里脸偏橙红；侧脸靠几何 + 肤色，耳朵被头发盖住没做；近看帽子针脚是规则的；东京的青色轮廓光把深色衣服整片染青，胸前拼色没白天明显 |
 | **J 疾风 NPC**（追兵，致敬版） | `static/game/npc.js`（新，行为）、`static/game/npc_jifeng.js`（新，造型 / 特效）；`engine.js` 只加 import + 1 行 init；`brain/tts.py` 加 `voice` 参数 + `--npc`；`shellos/agent/voice.py` 加 `NPC_VOICE` / `NPC_LINES`、缓存分目录；`server.py` 加 `/voice/npc.wav`（在 `/voice/*` 里）；`docs/提交/素材授权.md`（新） | 原创风系追兵：跟在玩家身后，步频决定远近，走慢了冲刺逼近（前倾 + 拖尾 + 风刃 + 喊一句），走快了被甩开，红灯她也站定；登顶结局「抓到你了」/「被你甩掉了」；只读 /state，不碰任何控制接口；`?npc=0` 关 | **第 5 轮 · 捷风 STL 雕像接进游戏 ✅**：Sketchfab 要登录，没用。改用 Thingiverse thing:4326703（作者 Frojj123，CC BY 4.0，粉丝原创的 3D 打印手办，不是游戏提取），总指挥放在主工作区的 `models/jett/jett.stl`（已被 git 忽略）。① `vendor/STLLoader.js`：本机只有 three **0.169** 官方包里的 STLLoader（0.160 不在 npm 缓存里；为了一个文件下整个包就没下）。它引用的 BufferAttribute / BufferGeometry / Color / FileLoader / Float32BufferAttribute / Loader / Vector3 / SRGBColorSpace 在 r160 里都有，实测能正常解析。② 加载：先 `mergeVertices`（STL 每个三角形各存 3 个点，不合并的话法线是平的），Z 朝上转成 Y 朝上，缩放到化身身高、脚底落地；这个 STL 本来就面朝 +X，所以 `yaw = 0`（4 个角度截图确认过：站姿、双臂下垂、没有底座），再 `computeVertexNormals` 让表面平滑。③ 按区域烘顶点色：靴 < 8%、腿 < 54%、外套 < 80%，80–93.5% 里朝前的算脸（肤色），其余算头发（白）；36–56% 高度、离中线 > 0.19 的算手套（深色）。材质是 Lambert 加自发光打底 30%、再加菲涅尔轮廓光，东京夜景里看得清。边界都在 `npc_jifeng.js` 的 `STATUE` 表里，对着截图调过。④ 动作「风系飘行」：离地 7 cm 浮着，走的时候上下起伏 ±5 cm，停下来慢慢起伏 ±3 cm，再加一点呼吸（身高缩放 ±1.2%）；前倾 0.03，走的时候 +0.1，冲刺再 +0.32 rad；冲刺时拖尾拉长（历史点间距 5 → 15 cm，最长约 3.6）+ 风刃；追上的那一下绕一个 1 s 的小弧（往前 0.35 步、往玩家那边切 0.3、身体跟着转）再站定；登顶被甩时弯腰。优先级：`scene.gltf` → `jett.stl` → 原创造型，都没有也不会报错。⑤ 性能：+7 次绘制、+4.4 万三角（东京预览 84 次 / 7.7 万 → 91 次 / 12.2 万）。无头 Chrome 走 GPU 的帧率噪声太大（同样没有 NPC，两次分别是 30.1 和 45.6），看不出雕像带来的差别，所以**没抽稀**；展位 M2 上要是掉帧，再加载时抽稀，或者远处换原创造型。⑥ 截图 `docs/提交/截图/npc_jett_stl_*.png`：preview（东京天桥冲刺）、front（正面看配色）、slow_1~6（`--sim` 泰山 80 步/分：gap 2.50「가자」→ 1.45「就这？빨리빨리」→ 0.70 追上、绕弧、「回头看看？我在这儿。」）、fast_1~3（130 步/分：2.76 → 4.69 甩开「哟，跑挺快嘛。」）、summit（登顶抓到「又是我先到，拜。」）。⑦ 素材授权.md：模型那一行改成 Thingiverse / Frojj123 / CC BY 4.0、粉丝原创手办、角色 IP 属于 Riot、不进 git；Sketchfab 那一行写「未采用（要登录）」。<br>**第 4 轮 · 方案 A：改名「捷风」+ Sketchfab 模型（没用上，要登录）**：球球知情后决定推翻「原创致敬版」（总指挥转达）。① `角色名` 缺省改成「捷风」，代码注释里的疾风也都改了；文件名、变量名没动。② `.gitignore` 加了 `shellos/ui/static/models/jett/`（用占位文件验过会被忽略）。deploy.sh 的 rsync 没有读 .gitignore，只排除了 .git / .venv / recordings 这些，所以模型会同步到展位机。③ `npc_jifeng.js` 用 GLTFLoader 读 `/models/jett/scene.gltf`：缩放到化身身高、脚底落地、正面转到 +X，贴图顺便当自发光打底，夜景里不会黑成一团。骨骼按名字匹配（thigh / upleg / leg、calf / knee、upperarm / arm、spine、head），左右按绑定姿态的位置分，摆动轴换算到每根骨骼自己的局部坐标，不依赖骨架的命名和轴向；T 字姿势的上臂自动放下 70°。自带的格斗站姿在「追上后站定」和「登顶抓到」时播放。模型 404、坏文件或者找不到腿骨，都**静默退回原创造型**，页面不报错（验过：没有模型时是原创造型，errlog 空）。**用 CesiumMan 冒充外部模型（`?npcmodel=/models/CesiumMan.glb`）把通用骨骼匹配走了一遍**：侧面看跑步姿势方向正确，前倾、大腿前摆、小腿后折、手臂反向摆。调试参数：`?npcmodel=` 换模型、`?npcmodel=0` 强制原创、`?npcyaw=` 修正朝向。⚠ 服务器 `_static` 给 .gltf / .png / .bin 回的是 application/octet-stream，按理不影响 GLTFLoader 解码，模型到了再实测。④ 素材授权.md 照实改了：模型来自 BojanV06（标 CC-BY，原始 IP 属于 Riot，很可能是游戏提取），球球知情后用于非商业黑客松展示，不进 git、不公开分发；角色名「捷风」属于 Riot 的 IP；原创造型只做退路。语音那一行来源不变，只把「外形和名字仍然原创」这句过期的说法改掉了。录音台词单里的同意示范句也改成了「角色『捷风』」。⑤ 「名字写错了」：等总指挥问清楚是角色名还是配音演员名（J 线的文件里没写配音演员的名字）。<br>**第 3 轮 · 配音演员本人现场录（等录音）**：本人当面同意（总指挥转达，记在留言里）。界限：只用本人**现场新录**的声音，不用游戏音频，不念游戏原台词；外形和名字仍然原创。① 录音台词单 `docs/提交/疾风录音台词单.md`（已发总指挥转球球）：原来的 6 句 + 新写的 5 句（被甩开 2「喂！我还没热身呢。」、追上 2「回头看看？我在这儿。」、红灯一起停「红灯。站好，我也不动。」、绿灯「绿灯了，가자！」、登顶嘲讽「山顶风大，站稳了。」），每句标了情绪，再加 30–60 s 自由说话；录音要求和同意视频的提醒都写在里面。② 接收：`brain/npc_intake.py` 读主工作区 `data/voice/npc_raw/`（`01~11.*` 一句一个文件，或者整段录、按 ≥0.9 s 的停顿切；`free.*` 是参考音频），用 ffmpeg 解码，按停顿切句、取最后一遍、去掉首尾静音，响度归一到 RMS −18 dBFS、峰值 ≤ −1 dBFS，输出 24 kHz 单声道 16 bit，放进 `data/voice/npc/real/`；每一段另存到 `npc_takes/`，自动挑的不满意可以用 `--use 09 <文件>` 换。`free.*` 转成 `data/voice/ref/jifeng_ref.m4a`。`/voice/npc.wav` **真人录音优先**，没有的再合成。已经有复刻 ID（`data/voice/npc_voice_id`）就用复刻音色，没有才用预设候选。③ 复刻：`tts.py --clone-npc`（9.9 元，**问过球球、确认后才跑**；`clone()` 改成可以传参考音频 / ID 文件 / 前缀，峰哥的行为不变）。游戏里 LINES 改成一个事件可以有好几句、随机挑一句，新增红灯 / 绿灯事件。用 `say` 生成的假录音走通了一遍：整段两遍切成 2 段、用最后一遍，输出 24 kHz / 1 ch / Int16，参考音频 16 s → m4a。test_voice 14 过（新增：真人优先不再合成；切句 + 归一化 + 输出格式）。素材授权.md 已写明「本人当面同意、现场新录、不是游戏素材」。<br>**第 2 轮 · 音色候选（等球球挑）**：第一版「清脆少女」球球说一点都不像。界限没变：不复刻捷风中文配音（真人）、不用游戏音频。从官方系统音色（国内站 get_voice 拉的 303 个）里挑了 4 个，都调了语速 / 音高 / 情绪：**A 嚣张小姐** `Arrogant_Miss`（1.2 / +1 / happy）、**B 韩语冷漠女孩** `Korean_ColdGirl`（1.25 / +1 / disgusted）、**C 韩语女冒险家** `Korean_BraveAdventurer`（1.25 / +2 / angry）、**D 俏皮萌妹** `qiaopi_mengmei`（1.3 / −1 / surprised）。台词重写成嘴欠刺客味，原创，夹通用韩语感叹词：가자！你先跑三秒。/ 就这？빨리빨리！/ 逮到了，慢死了。/ 哟，跑挺快嘛。/ 又是我先到，拜。/ 啧，算你走运。试听用其中 4 句，每个候选同样 4 句，一共 16 条全部成功，200 计费字符（约 $0.02）。文件在主工作区 `data/voice/npc_candidates/<候选名>/1~4.wav`（不进 git）。试听：`cd data/voice/npc_candidates && for d in */; do echo "== $d"; for f in "$d"*.wav; do afplay "$f"; done; sleep 1; done`。**选定后**：`voice.py` 里 `NPC_VOICE` 的缺省改成那个候选名，再跑 `brain/tts.py --npc`，只有 2 句要新合成，另外 4 句试听时已经进了缓存。在那之前，缺省还是清脆少女，新台词会现场合成。代码改动：`voice` 参数可以传完整的 voice_setting 字典（tts.py 只收 voice_id / speed / pitch / vol / emotion 这几个字段），带 NPC 音色时 `language_boost=auto`；`tts.py --npc-candidates`；新增测试 1 条（字段透传、auto、参数不同缓存分开），test_voice 13 过。<br>✅ 第 1 轮：分支 `claude/recursing-gould-f7e62a`（未 push、未合 main）。**造型**：复用 CesiumMan 换装（深蓝腿、蓝外套、白头）+ 往后吹的白发（6 个锥，合成一个网格）+ 白色高领，冲刺时 3 条加色拖尾 + 两道绕腰的月牙风刃，「抓到」时脚下一圈风环。没用 Quaternius：多一个 glb，骨骼名不一样，pose 接不上。角色名是 `npc_jifeng.js` 顶上的 `角色名` 常量（缺省「疾风」，也可以临时 `?npcname=`）。**行为**（`npc.js` 顶上的 `NPC` 表）：落后 gap 步，起始 2.5；走的时候 gap 每秒变化（步频 − 100）/ 40 步；站着不走（不是红灯）每秒贴近 0.4 步；**红灯 gap 冻住**、不冲刺、不喊；gap ≤ 0.7 算追上，≥ 4.5 算甩开（她藏到镜头后，左下角留「疾风 ↓ 落后 N 步」）；登顶时 gap < 3 →「抓到你了」，她冲到玩家左后侧 + 风环，否则「被你甩掉了」，停在原地弯腰喘气；登顶卡收起后 gap 回到 2.5。她走左侧路沿（横向 +0.85），不和右边的影子叠在一起。距离按真实时间积分，掉帧也不会追得慢。**声音**：MiniMax 系统预设音色 `Chinese (Mandarin)_Crisp_Girl`（官方系统音色列表里的，不是复刻，不花 9.9），台词原创 6 句：风起了 / 别停 / 追上你了 / 等等我 / 抓到你了 / 被你甩掉了；`/voice/npc.wav?t=` 只念这 6 句白名单，别的回 204；缓存 `data/voice/npc/`，和峰哥的分开。在主工作区 brain 目录用 `brain/.env` 的 key 真跑了一次 `tts.py --npc`：6 句全部成功，42 个计费字符，每句 1.0–1.3 s，wav 已经放进主工作区 `data/voice/npc/`（deploy 时跟着 data/voice 一起同步）。?voice=0 静音，预览不出声。**验收**：`pytest` 108 过 1 挂（worktree 里没有录制文件的那条 stress，和以前一样；新增 2 条：白名单 + 分目录缓存、预设音色不需要复刻）。截图（1080p，无头 Chrome 走 Metal GPU，swiftshader 一帧要 40–90 s，没法连拍）在 `docs/提交/截图/`：`npc_preview.png`（东京天桥、冲刺、「别停」）；`--sim` 泰山 80 步/分 `npc_sim_slow_1~3`（gap 2.50「风起了」→ 1.67「别停」→ 0.70「追上你了」，从起步到追上 5.8 s）；130 步/分 `npc_sim_fast_1~3`（3.37 → 4.80「等等我」→ 5.50 甩开，3.7 s 甩开）；东京红灯 80 步/分 `npc_sim_red_1~2`（第 4 步红灯站住，gap 1.39 连续 7 s 不变）；`npc_summit_caught.png` / `npc_summit_shaken.png`（登顶两种结局）。**性能**：东京预览加 NPC 前后是 84 → 93 次绘制，77.3k → 82.5k 三角形（+9 次、+5.2k）。`?npc=0` 时没有 NPC 也没有标签（验过）。**没做到**：A2 的动画没接（接口写在下面的留言里）；红灯时她停在路左侧，镜头在左后方，偶尔会挡住化身的一部分；登顶环绕镜头下她的名字牌位置是按头顶投影算的，离得近时会偏高 |
-| **R 跑酷**（球球的屋顶跑酷，分支 claude/distracted-darwin-3d3c88） | `static/parkour.html`、`static/parkour/**`（`logic.js` 纯逻辑 / `city.js` 场景 / `main.js`）、`tests/test_parkour.py`（新）；`server.py` 只加 `/parkour` 路由 + `/parkour/` 静态前缀（3 行） | 独立新页 `/parkour`：第三人称跟跑 · 夜里城市屋顶 · 峰哥 · 无尽模式撞 3 次结束（球球 9/23 选的都是推荐项）。步频 = 跑速，高抬腿 = 跳，双腿下蹲 = 滑铲，键盘 ←→ 换道；疾风在后面追 | **v1 能玩，未 push**。**玩法**：3 条道，楼缝 / 空调外机（跳）、晾衣杆（蹲）、水箱（换道）、斜板上更高的楼；步频 → 速度 0.075 m/s 每步/分（100 → 27 km/h，200 封顶 54 km/h）；疾风开局站你身边喊「가자！你先跑三秒。」，3 s 后开追，速度随距离涨（1000 m 时 ≈ 步频 137），追上算撞一次；高抬腿或回车再来一局，最好成绩存 localStorage。**腿**：屈髋减 A2 学出的零点（`av.body.off`），一条腿 > 45° 且还在抬、另一条 < 30° = 跳；两条都 > 35° = 滑铲；走满 5 s 才开（零点没学出来前穿戴偏屈 15–20°，会误触发）。阈值在 `logic.js` 的 `TUNE`，现场可以用 `?jump=&slide=&vjump=` 调。node 测试：正常走路 20 s 0 次误触发。**腿上的力**：只调 `POST /terrain/force`：斜板 = `up`，落地 0.5 s = `down`，前方 0.9 s 内要跳 = `lift`（只在摆动期帮抬腿；9/23 台阶力反过来后从 `stairs_up` 换过来），其余 null；非 null 带 ttl 1 s、每 300 ms 续；大小仍归 Guard + R2。页面失焦 / 隐藏 / 关掉 / 一局结束 / 没开跑都回 null（实测失焦 2 ms、切走 39 ms 服务端就是 null）。**没兜住**：浏览器崩了（SIGKILL，pagehide 不触发）force 会留在最后那个值，见留言。**验收**：`--sim` 自动驾驶（`?auto=0.95`，每个障碍 95% 躲）完整一局 126 s / 1203 m，连拍 9 张 `docs/提交/截图/parkour_01_title` … `parkour_09_over.png`（开场 → 跳 → 换道 → 滑铲 → 跑 → 疾风逼近 → 撞 1 / 撞 2 → 被疾风抓住），这局 force 出现过 null / up / stairs_up / down（当时起跳前用的还是 stairs_up，现在换成 lift）。**性能**：这台开发机是 2017 款 AMD Radeon Pro 555（没有 M2 可测），无头 Chrome 走 Metal、1920×1080：**60 fps（到顶）**，`?fx=low` 也是 60；绘制 ≤ 102 次、≤ 3 万三角。最大的坑是 HUD 面板的 `backdrop-filter: blur`（34 → 60 fps 就差它），已去掉；fx=low 降分辨率到 0.75 反而更慢，改成只关抗锯齿 + 远景楼减半。pytest 114 过（worktree 缺 `data/recordings/synthetic-walk.csv`，那条 stress 借主工作区的文件软链后才过，和以前一样）。**没做**：真机没穿过，高抬腿 / 下蹲阈值只按 A2 录制的量级估的；没有峰哥解说 / 金币 / 排行榜 |
+| **R 跑酷**（球球的屋顶跑酷，分支 claude/distracted-darwin-3d3c88） | `static/parkour.html`、`static/parkour/**`（`logic.js` 纯逻辑 / `city.js` 场景 / `main.js`）、`tests/test_parkour.py`（新）；`server.py` 只加 `/parkour` 路由 + `/parkour/` 静态前缀（3 行） | 独立新页 `/parkour`：第三人称跟跑 · 夜里城市屋顶 · 峰哥 · 无尽模式撞 3 次结束（球球 9/23 选的都是推荐项）。步频 = 跑速，高抬腿 = 跳，双腿下蹲 = 滑铲，键盘 ←→ 换道；捷风在后面追 | **v1 能玩，未 push**。**玩法**：3 条道，楼缝 / 空调外机（跳）、晾衣杆（蹲）、水箱（换道）、斜板上更高的楼；步频 → 速度 0.075 m/s 每步/分（100 → 27 km/h，200 封顶 54 km/h）；捷风开局站你身边喊「가자！你先跑三秒。」，3 s 后开追，速度随距离涨（1000 m 时 ≈ 步频 137），追上算撞一次；高抬腿或回车再来一局，最好成绩存 localStorage。**腿**：屈髋减 A2 学出的零点（`av.body.off`），一条腿 > 45° 且还在抬、另一条 < 30° = 跳；两条都 > 35° = 滑铲；走满 5 s 才开（零点没学出来前穿戴偏屈 15–20°，会误触发）。阈值在 `logic.js` 的 `TUNE`，现场可以用 `?jump=&slide=&vjump=` 调。node 测试：正常走路 20 s 0 次误触发。**腿上的力**：只调 `POST /terrain/force`：斜板 = `up`，落地 0.5 s = `down`，前方 0.9 s 内要跳 = `lift`（只在摆动期帮抬腿；9/23 台阶力反过来后从 `stairs_up` 换过来），其余 null；非 null 带 ttl 1 s、每 300 ms 续；大小仍归 Guard + R2。页面失焦 / 隐藏 / 关掉 / 一局结束 / 没开跑都回 null（实测失焦 2 ms、切走 39 ms 服务端就是 null）。**没兜住**：浏览器崩了（SIGKILL，pagehide 不触发）force 会留在最后那个值，见留言。**验收**（9/23 晚重拍，捷风改名 + 美术范式之后）：`--sim` 自动驾驶（`?auto=0.96&seed=12`）完整一局 127 s / 1123 m，9 张 `docs/提交/截图/parkour_01_title` … `parkour_09_over.png`（开场捷风站右边 → 跳（脚下台阶黄起跳沿、对面下坡蓝落地沿）→ 换道 → 滑铲 → 跑 → 捷风逼近（右上角变红）→ 撞 1 / 撞 2 → 被捷风抓住），这局 force 出现过 null / up / lift / down。**美术**：颜色全从 `game/style.js` 取（`applyCssVars()` + `SEG` / `PALETTE.parkour`），按 ART §R 改了 5 条 P1：捷风钴蓝名牌、起跳障碍前沿台阶黄、斜板两侧上坡绿、换道提示紫、捷风只在离镜头 ≥ 2.5 m 且横向 1.8 时现身（站峰哥另一侧，不压左下腿力面板）；另外车道线青 → 月光白（青撞下坡蓝）、楼沿警示带黄黑 → 灰黑（黄 = 台阶）。P2 光影管线没接（要 L 线给预设）。**性能**：这台开发机是 2017 款 AMD Radeon Pro 555（没有 M2 可测），无头 Chrome 走 Metal、1920×1080：**60 fps（到顶）**，`?fx=low` 也是 60；绘制 ≤ 102 次、≤ 3 万三角。最大的坑是 HUD 面板的 `backdrop-filter: blur`（34 → 60 fps 就差它），已去掉；fx=low 降分辨率到 0.75 反而更慢，改成只关抗锯齿 + 远景楼减半。pytest 114 过（worktree 缺 `data/recordings/synthetic-walk.csv`，那条 stress 借主工作区的文件软链后才过，和以前一样）。**没做**：真机没穿过，高抬腿 / 下蹲阈值只按 A2 录制的量级估的；没有峰哥解说 / 金币 / 排行榜 |
 | **L 光影** | `static/game/lighting.js`（新）、`static/vendor/postprocessing/`、`static/vendor/shaders/`（three 0.160 官方包原样拷，不走 CDN）；`engine.js` 只动 3 处（import、渲染器 antialias 那行 + `makeLighting()`、`renderer.render` → `lit.render(ctx, A, s, summit)`） | 电影感光影 + 守住帧率 | ✅ **主题文件一行没改**，按 `theme.style` 在 lighting.js 里配。**管线**：场景照旧在着色器里编码成 sRGB 写进半浮点 4×MSAA 目标（半透明的雾、雨、影子照旧在 sRGB 空间混合，主题调好的样子不变）→ 泛光（阈值按最亮通道，霓虹 / 灯 / 日轮过线、白衣化身不糊）→ 光束（有 `sunGlow` 的泰山 / 富士山，滤色叠加，只提亮剪影边）→ 最后一道：解码 → 曝光 + ACES（每主题白点，白天主题 1.0–1.3，不然云和日轮会被压成一团灰）→ 冷暖分离 / 暗角 / 抖动。**阴影**：太阳 PCF 软阴影，阴影盒 ±13 跟着化身前方 4 走（按贴图像素对齐不闪），投影 = 不透明、吃雾、半径 < 30 的网格 + 所有实例化网格 + 化身；路面、地面只接影。**分主题**：东京湿路面挂画出来的霓虹环境图（水洼反得多，0 次额外绘制）、冷暗暖亮；泰山逆光 + 光束 + 暖色轮廓；富士山按爬升进度把曝光 / 白点 / 泛光 / 调色 / 化身轮廓光从星空（冷）过渡到御来光（暖）；梧桐山石阶补接影（原来是定色材质）+ 林荫光斑 + 影子里留 50% 天光；训练场暗部略提。**开关**：`?fx=high`（缺省）/ `mid` / `low` / `off`（off = 原来的直出）；单项 `?bloom=0 ?shadow=0\|1024\|2048 ?rays=0 ?grade=0 ?tm=aces\|agx\|none ?exp=1.2 ?aa=0`；缺省连续 4 s < 45 fps 自动降一级（光束 → 阴影 2048 → 1024 → 关 → 泛光），`?auto=0` 关；调试 `__lighting.info()`。**帧率**（展位 MacBook 实测，**它是 M2 Pro 不是 M2**；1920×1080、无头 Chrome 走 Metal、关垂直同步取 6 s 平均；离线预览，另起的 `--sim` 8878，测完关了）：东京 pos 6 off 561 / low 314 / mid 230 / high 172；泰山 pos 24 603 / 349 / 162 / 164；富士 pos 6 638 / 390 / 221 / 162；梧桐 pos 10 404 / 219 / 230 / 184；训练场 pos 6 689 / – / – / 216（low / mid 两次都没加载出来，见留言）。开垂直同步时东京 high 60.0 = 顶格。缺省 high 最低 162 fps，普通 M2（GPU 约一半）估计也 ≥ 80，没实测。开发机 Intel 无头 1280×720（负载 45）：off 40–57，high 22–34。**截图**（前 = `?fx=off`，后 = 缺省）：`docs/提交/截图/light_cyber_night.png`、`light_dawn_mountain.png`（含登顶）、`light_night_to_dawn.png`（pos 6 / 22 / 30 / 登顶）、`light_subtropical.png`、`light_grid.png`；5 个主题 + 实时 /game 三档都 0 报错。**不理想**：泰山两处比原来暗一点（拂晓调子）；泰山登顶日轮比原来淡；梧桐山路边没有树冠，「树影」主要靠光斑图案 + 护栏影，真树影落不到石阶上；每帧绘制 +50～70（阴影一遍 + 后期约 15 次） |
 | **M2 地图（对话框）** | `static/game/themes/**` 的几何和道具、`path.js`、`themes/kit.js`、`game.html` 布局；`hud.js` 只动 AVOID（灯光/雾/后期/材质发光归 L，人物/动作/NPC 归 P/A2/J，`engine.js`/`camera.js` 不动） | 接手第 3 轮：先审 → 修坏处 → 每个主题 3 个大屏改动 → `?fx=low` 降级 | **第 1 批已提交（分支 claude/focused-shtern-45d528，待合并）**。**审第 3 轮（6 个世界 × 跟拍 + cam=front，1280×720）发现并修了**：东京神社石阶镜头从下鸟居横梁里穿过去（半透明横梁糊满画面）→ 下鸟居加高到 3.6、柱距 3.9，石阶上 `rigFor` 把镜头压低拉近（离脚 1.8、身后 2.9）从貫下面过，鸟居改不透明，只在真要擦到横梁时藏；东京坂道左侧雨棚从天桥下来糊在镜头左下 → 左侧商铺往外挪 0.5；富士/梧桐/训练场正面镜头回看时木牌是反字 → `kit.signs2`（每块字牌加转 180° 的背面、单面材质，仍 1 次绘制）、训练场路段门挂双面牌；富士五合目灯笼、六合目牌离镜头太近 → 往外挪；梧桐观景台望远镜糊在右下 → 往平台外沿挪。没看到悬空/闪烁/贴图拉伸。**每个主题 3 个改动**：东京 = 涩谷站前忠犬ハチ公铜像（开场帧左侧）、天桥脚下蓝底「渋谷駅前歩道橋」桥名牌、大鸟居右柱前「出世の石段」石柱 + 镜头从鸟居下穿过去的构图；泰山 = 紧十八起点「升仙坊」石坊（从坊下仰看南天门框在坊顶，真实机位）、不紧不慢又十八右侧「对松亭」、左侧石刻「慢十八」「不紧不慢又十八」（和青云梯一起标出三段）；富士 = 七/八合目山小屋屋号横牌（東洋館 / 白雲荘 / 元祖室，吉田口真实小屋名）、七合目岩場两侧铁桩锁链扶手、山顶鸟居左侧久須志神社；梧桐 = 毛棉杜鹃粉花小乔木（13 棵，右侧为主，左侧离路 ≥ 6）、山脚棕色指路牌「↑ 好汉坡 / ↑ 观景台 · 大梧桐」、山顶「大梧桐 · 海拔 943.7 米」牌；训练场 = 正面镜头回看时显示身后刚走过的路段门（双面牌）、加「起点 · START」门、起点背后「峰哥亡命天涯 · 训练场 01/02」大牌。**`?fx=low`**（`kit.LOW`）：东京雨 2600→900 滴；泰山松 95→45、灌草 420→180；富士碎石 360→160；梧桐林木网格 3.4→4.8（约减半）、林下 420→180、杜鹃 13→6。整场景三角形（全画质 / low）：东京 78k / 75k，泰山 242k / 176k，富士 88k / 81k，梧桐 368k / 235k，训练场 22–24k；draw call 均 ≤ 110。hud.js AVOID 加了 'fg'。**截图** `docs/提交/截图/map_v4_*.png`（24 张，1920×1080 渲染缩到 1280×720；只有 3D 画面，不含 HUD——内置浏览器面板隐藏时 rAF 停，改成页面里手动摆位 + render + toDataURL）。**没做到 / 照实写**：FPS 没法在这台机器上测（负载 60+，面板隐藏 rAF 停，headless swiftshader 一张图都出不来），展位 M2 的 ≥50 fps 要现场 `?fx=low` 对比看；截图里的登顶画面是我自己按 rig.summit 摆的镜头，和真登顶环绕的时刻不完全一样 |
 | **E 珠峰地图**（分支 claude/exciting-ptolemy-bc4711） | `shellos/worlds/everest_north.json`（新）、`static/game/themes/snow_summit.js` + `themes/snow_summit/`（新：sky / snow / props / hypoxia）、`docs/提交/截图/everest_*.png`；`worlds/__init__.py` 只改 ORDER 一行（排富士后面）；**engine.js / path.js / kit.js / hud.js 都没改** | 珠峰北坡新世界 + 高海拔雪山主题 `snow_summit` | ✅ **做完，未 push**。**路线** 56 步（按爬升比例压，不按路程）：珠峰大本营 3 平 → 东绒布冰川 19 上坡（Z 字）→ 前进营地 2 平 → 北坳冰壁 5 上台阶 → **北坳营地·吸氧**（wait）→ 北山脊·大风口 19 上坡 → 第一台阶 2 → **第二台阶·排队上梯**（wait）→ 第二台阶·中国梯 3 上台阶 → 顶峰雪坡 1 → 珠穆朗玛峰。HUD 海拔（terrain.py 同一公式算过）：5200 / 6508 / 7024 / 8333 / 8539 / 最后一步 8849；第一、二台阶为了腿感放大了：第一台阶读数比真实低 60–230 m，梯子段 8539–8746（真实约 8580–8680），note 里写的是「±200 m 以内」。**按实地校对**（查证 workflow：新华社 / 澎湃 / 中国日报 / 维基 / Alan Arnette 交叉核对，只写高可信的）：① 去前进营地走的是**东绒布冰川**，任务单写的「中绒布」改了；② **排队挪到第二台阶梯子下面**：北坡公认的堵点就是一次只能上一个人的中国梯，2019 那张著名排队照片是南坡拍的，所以没放在顶峰前；③ 中国梯 1975 年架设，2007 年旁边另架新梯、2008 年原梯拆下收进拉萨珠峰登山博物馆，note 写明；④ 北坳起可以开始吸氧（新华社原文），7500 m 一带叫大风口；⑤ 8848.86 = 2020 年中尼共同公布的雪面高程。**主题**：大本营玛尼堆 + 放射状经幡（旗面在顶点着色器里飘，风雪越大飘得越凶）、黄帐篷、「珠峰大本营 5200 m」石、远处珠峰北壁 + 旗云；碛石路 + 右侧冰塔林；北坳冰壁冰塔、红蓝固定绳 + 雪锥（路右沿外，冰壁起一直拉到顶峰前）、雪道贴图上两排冰爪印（化身线 + 影子线，每步一个）；北坳营地帐篷 + 氧气瓶；第一 / 第二台阶两侧积雪岩块（第一台阶偏黄 = 黄带）；**铝梯**：两根边梁 + 横档压在台阶前沿、顶端翘出，化身踩在横档上；**排队** 5 人（`fx=low` 3 人）红灯时站在梯子上和雪坡上，放行后往上走、翻过顶峰就不见，挡在镜头和化身之间（正面镜头）的自动藏；**顶峰红色测量觇标**（三脚架 + 立杆 + 觇牌 + 天线盘）+ 经幡；登顶镜头从化身左前方起，看得见峰哥的脸，影子和觇标错开在旁边。**天气**按进度：低处晴（藏蓝天、白太阳）→ 过前进营地起风雪（雾收到 5–36、雪粒横飞、远山褪白）→ 排队处转晴 → 登顶 1.2 s 过渡到脚下云海 + 头顶蓝黑天，三层喜马拉雅剪影随爬升沉到地平线下。**缺氧**：按海拔（5300 m 起）画面四周变暗 + 模糊（DOM 两层：径向暗角 + backdrop-filter 模糊带遮罩，插在 canvas 后面、HUD 下面，和 WebGL 后期不相干），随呼吸（14→21 次/分）只改透明度，画面不晃不缩放。**走到才露面**：整条路只有 28 个单位长、4.4 高，大本营一眼能看到顶，所以岩石台阶 / 铝梯 / 排队 / 觇标离 6–9 个单位才溶出来，过了北坳大本营 / 前进营地的帐篷经幡溶掉（站在第二台阶回头不会看见 20 个单位外的大本营帐篷）。红灯面板写这一段的名字（● 北坳营地·吸氧 / ● 第二台阶·排队上梯）。地标按路段类型找、不写死步号，「一句话造山」生成的 snow_summit 世界也能用。藏起来的东西不用 `visible=false`，缩成一个点（还在绘制列表里）：ANGLE / Metal 第一次绘制才建管线，以前雪粒、云海、岩块爬到半路第一次露面各卡 170–220 ms，改后第一次露面 5–8 ms（本机实测）。**对抗式 review**（workflow：正确性 / 接口规矩 / 性能 / 史实 4 个维度，每条再派 2 个复核）找出 8 条，全修了：缺氧呼吸相位拿绝对时间算（开久了越喘越快）、雪粒同样的问题（风速一变整片瞬移）、排队的人会被走得快的化身穿过去 / 新一圈往回滑、顶峰一条经幡绳穿过化身腰部、登顶开场影子被化身挡住、固定绳在路面里（镜头那侧）、上面说的着色器卡顿、note 里海拔误差写反了 + 北坳写成≈7020。**验收**：截图 `docs/提交/截图/everest_{bc,col,ladder,queue,summit}.png`（跟拍）+ `everest_*_front.png`（`&cam=front`），URL `/game?preview=everest_north&pos=1|29|53|51|55&summit=1`（带 `&ghost=`）；无头 Chrome（Metal）按真实时间等 `data-ready` 再截，1920×1080 缩到 1280×720，errlog 全空。`--sim` 走一圈：30.5 s 登顶（laps 0→1），北坳 / 排队两处停下后 2.2 s、2.0 s 放行（站定 1.5 s 规则），实时页面（非预览）也跑过一圈，errlog 空。pytest **108 passed**（`test_fault::test_stress_stack_end_to_end` 要 `data/recordings/synthetic-walk.csv`，那是 gitignore 的，worktree 里没有；从主工作区临时拷进来跑过再删了）。**性能**：**没在 M2 上测**。本机（2017 MBP，Radeon Pro 555）1080p 无头 Metal：珠峰 28–36 fps、泰山同法 27 fps；强制同步渲染测法：空场景 39 ms、珠峰 43 ms、泰山 90 ms（主题本身约 +4 ms）。整场景 ~124–144k 三角形、44–67 次绘制；`?fx=low`：~98–106k 三角形、雪粒 700（常规 2200）、排队 3 人、不要模糊层；主题 65 KB。`gen.styles()` 已经能拿到 snow_summit；两条怪路线（无红灯含下台阶 / 开头红灯 + 结尾排队）预览 errlog 空。**不理想**：铝梯只能顺着台阶斜度铺（引擎每级只升 0.12），「陡」靠两侧岩块 + 低机位仰拍撑；HUD 小标签和「N 步后：」还写「红灯」、登顶那 6 s HUD 海拔显示新一圈的 5200（hud.js，见留言）；和 L 线 lighting.js 合并后没一起测过（见留言） |
@@ -42,7 +42,7 @@
 - L → M / 总指挥（`docs/游戏主题接口.md` 过时了两处，文档不在我名下）：§3「renderer：阴影关」、§8「不开实时阴影」→ 现在由 `game/lighting.js` 统一开太阳阴影、自动设 castShadow / receiveShadow，主题**不用、也别**自己设；想让某个近景大网格不投影，就在 build 里把它的 `castShadow = false`（lighting 在第一帧才扫，之后不再改）。另外：别给太阳精灵改名（`sunGlow`，光束靠它找太阳）；化身轮廓光（`theme.avatar.rim`）在东京 / 泰山 / 富士山 / 梧桐山被 lighting 的 PRESET 覆盖，训练场照用主题的。
 - R → 总指挥（`server.py` / `terrain.py`）：`/terrain/force` 没有超时。跑酷页面失焦 / 关掉会发 null，但浏览器崩了（实测 SIGKILL）force 就一直留着，之后登山游戏也会一直是那种路段的脉冲。建议照 `/hold` 的做法加一个 TTL：`{"kind":…,"ttl":1.0}` 超时自动回 null，跑酷每 0.5 s 续一次（我这边改 3 行就能接）。在那之前，展位上跑酷崩了就刷新一下 `/parkour`（打开时会先发 null）或者在仪表盘切一次控制律。
 - R → M（`game.html`）：`.panel` 的 `backdrop-filter: blur(8px)` 盖在 WebGL 画布上很贵：跑酷页同样的面板，这台 AMD 555 上 1080p 从 34 fps 到 60 fps 就差它。登山游戏要是展位上掉帧，先试把它去掉（背景不透明度提到 .86 看起来差不多）。
-- R → A2 / J：跑酷 import 了 `/game/avatar.js`（`loadAvatar` + `av.animate` + `av.body.off`）、`/game/fengge.js`、`/game/npc_jifeng.js`（`makeJifeng` 的 `pose / update / burst / visible`），没改它们。改这些接口时顺手 grep 一下 `static/parkour/main.js`。疾风台词只用 NPC_LINES 里现成的 4 句（가자 / 就这 / 逮到了 / 哟跑挺快）。
+- R → A2 / J：跑酷 import 了 `/game/avatar.js`（`loadAvatar` + `av.animate` + `av.body.off`）、`/game/fengge.js`、`/game/npc_jifeng.js`（`makeJifeng` 的 `pose / update / burst / visible`），没改它们。改这些接口时顺手 grep 一下 `static/parkour/main.js`。捷风台词只用 NPC_LINES 里现成的 4 句（가자 / 就这 / 逮到了 / 哟跑挺快）。
 - J → A2（动画接口，先用简单版不阻塞）：`npc.js` 给疾风摆姿势只调 `npc.pose(flexL, flexR)`（和 avatar.js 的 `av.pose` 同一个签名，度，正 = 前抬），外加 `npc.group.rotation.z = -lean`（冲刺前倾 0.28、喘气 0.5 rad）。A2 要是给 avatar.js 加了跑 / 喘 / 挥手之类的动作，最好是 `av.play(name, speed)` 或者 `pose(fl, fr, opts)` 多一个可选参数，我这边改 3 行就能接上：冲刺→跑、登顶被甩→喘、登顶抓到→挥手。别改 `pose(fl, fr)` 原来的含义。
 - J → M：`engine.js` 我只加了第 10 行 import 和第 130 行 `initNpc(...)`（`me` 创建之后）。NPC 自己跑 rAF，读 `me.s` 和引擎的 `S`，不改引擎状态。hud.js 的 `AVOID` 不用加 `npcTag`：疾风的标签出画时钉在左下 36% 宽处，和影子标签（正中下方）分开。
 - J → V / 总指挥：`voice.get(text, voice=...)`、`voice.path(text, voice)`、`tts.get(text, voice_id)`、`tts.synth(text, voice_id)` 都是多了一个可选参数，缺省值和原来行为一样（峰哥复刻音色、`data/voice/`）。`server.py` 在 `/voice/*` 里加了 `/voice/npc.wav`，只念 `voice.NPC_LINES`。换 NPC 音色：`SHELLOS_NPC_VOICE=<候选名>`（`voice.NPC_CANDIDATES` 里的键），再跑 `tts.py --npc`（缓存按整份 voice_setting 分开，不用清旧的）。
